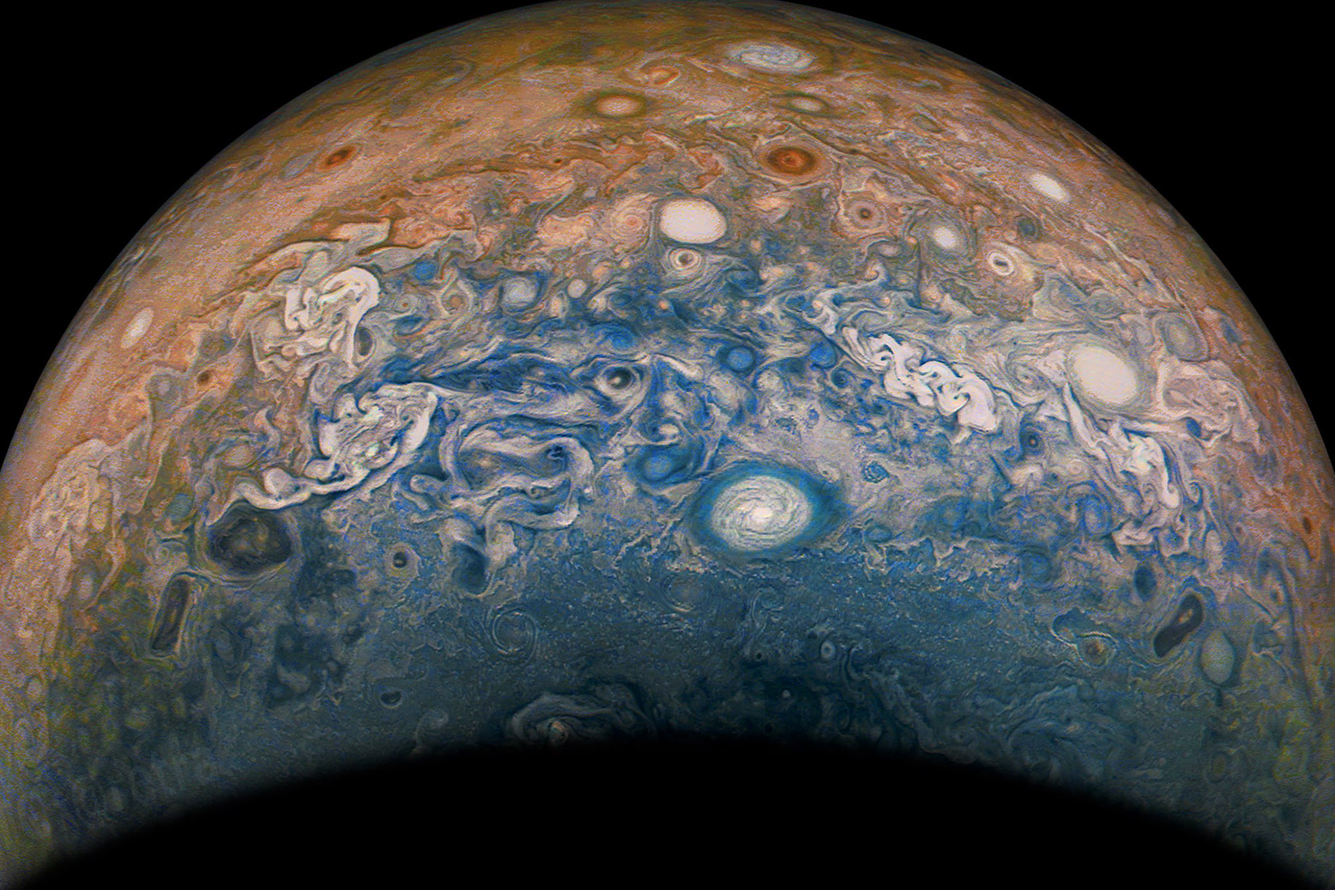
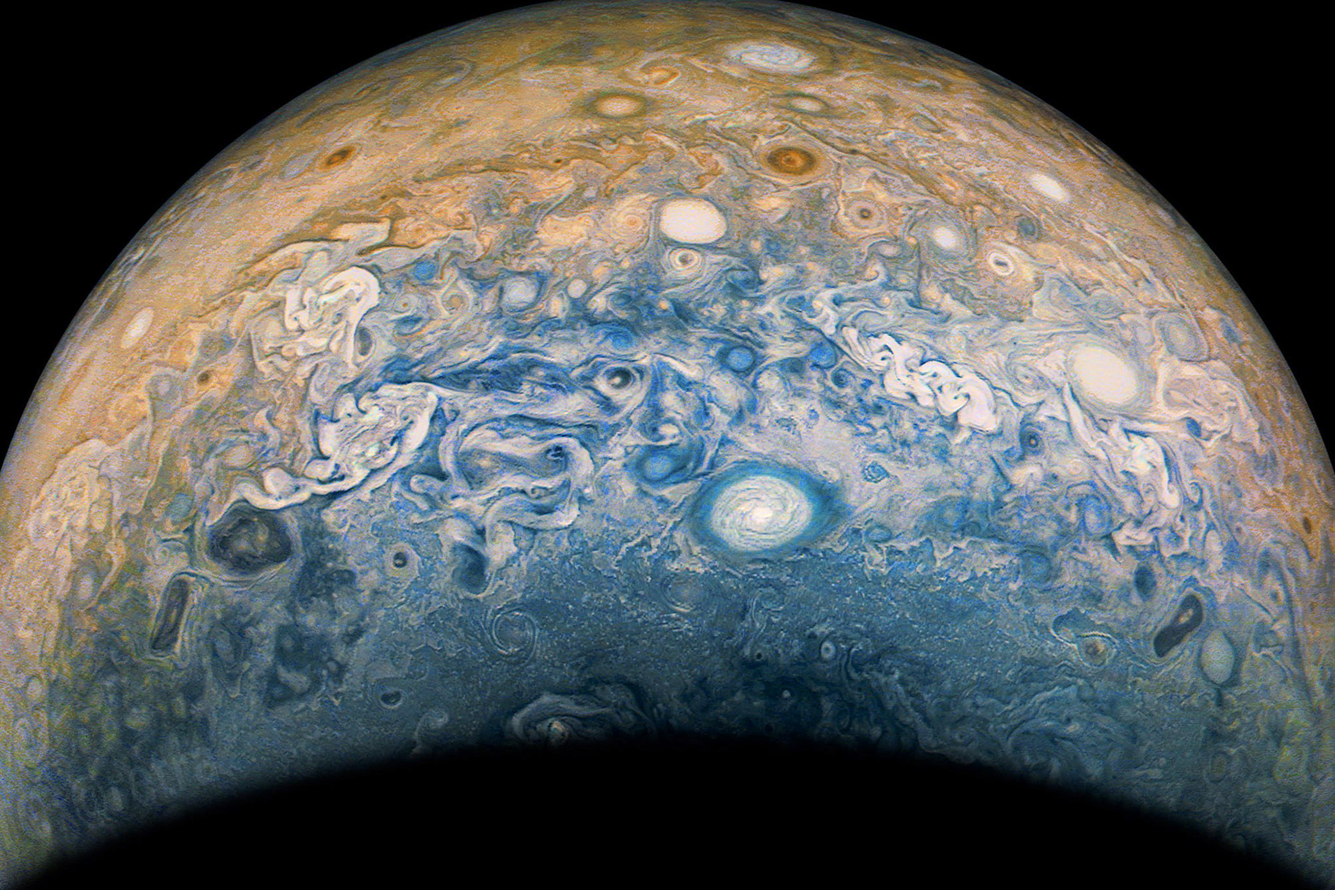
heroscreen fixed

diff --git a/assets/css/page/home.css b/assets/css/page/home.css
@@ -1,12 +1,53 @@
 /* 1. hero-секция */
 #hero {
-    background-image: url(../../img/page/home/hero1.jpg);
+    background-image: url(../../img/page/home/hero3.png);
     background-position-y: top;
     background-attachment: fixed;
     background-color: black;
     color: var(--SoftBlack);
-    display: block;
     padding: var(--sectiongap) 0 0;
+    display: block;
+}
+
+#hero div.layout:first-child {
+    padding: 0 var(--padding);
+}
+
+#hero nav {
+    padding: 1rem;
+    grid-column: 3 / -1;
+    background-color: rgba(255, 255, 255, 0.35);
+    margin: 0;
+    display: flex;
+    flex-direction: column;
+    justify-content: flex-start;
+    align-items: flex-start;
+    gap: 1rem;
+}
+
+@media (max-width: 768px) {
+}
+
+/* Семантически правильное меню сайта */
+#hero nav ul {
+    margin: 0;
+    padding: 0;
+}
+#hero nav ul li {
+    list-style-type: none;
+    margin: 0.5rem 0 0;
+}
+#hero nav a {
+    display: block;
+    color: var(--DeepBlue);
+    text-decoration: none;
+}
+#hero nav a:link,
+#hero nav a:visited {
+    color: var(--DeepBlue);
+}
+#hero nav a:hover {
+    color: var(--BrightBlue);
 }
 
 #hero h1,
@@ -16,105 +57,57 @@
         0 0 65px var(--CosmicLatte),
         0 0 10px tan,
         0 0 1.5px gold,
-        0 0 0.5px white,
-        inset 0 0 0.5px black;
+        0 0 0.5px white;
 }
 
 #hero h1 {
-    margin: calc(var(--sectiongap) / 2) var(--padding);
+    margin: calc(var(--sectiongap) / 2) 2rem;
     z-index: 2;
 }
 @media (max-width: 768px) {
     #hero h1 {
         text-align: center;
     }
-    #hero {
-        background-position-y: 15%;
-    }
-    #hero nav a {
-        text-shadow: unset;
-        color: cornflowerblue;
-    }
-    #hero nav a:visited {
-        text-shadow: unset;
-        color: var(--BrightBlue);
-    }
 }
 
-#hero::before {
-    content: "Превращаю ценности в продающий триггер";
-    font-family: Unovis100;
-    font-size: 13vw;
-    line-height: 0.5rem;
-    color: grey;
-    text-shadow:
-        1.5px 1.5px 0 silver,
-        -1.5px -1.5px 0 silver,
-        -1.5px 1.5px 0 silver,
-        1.5px -1.5px 0 silver;
-    mix-blend-mode: overlay;
+#hero .outline {
     position: absolute;
-    left: 0;
-    width: 100vw;
-    bottom: 326px;
-    display: none;
+    font-family: Unovis100;
+    font-size: 10vw;
+    line-height: 4.5vw;
+    padding-top: 0.65rem;
 }
-#hero nav,
-#hero div {
-    margin: 0 var(--padding);
-    display: grid;
-    grid-template-columns: var(--grid);
-}
+@media (max-width: 768px){
+    #hero .outline {
+    font-size: 9vw;
+    }}
 
-#hero nav *,
-#hero div * {
+#hero .layout *,
+#hero .layout p {
     grid-column: 3 / -1;
 }
 
-#hero ul {
-    margin: 1rem 0 0;
-}
-
-#hero div {
+#hero div.layout:last-child {
+    display: grid;
+    grid-template-columns: var(--grid);
     color: var(--CosmicLatte);
     background: var(--SoftBlack);
-    margin: 0;
     padding: 2rem var(--padding) var(--sectiongap);
 }
 
-@media (min-width: 769px) {
-    #hero .logo {
-        background: url(../../img/logo/Kc_logo_full_logo_raster_lght.png);
-        background-size: contain;
-        background-position: center;
-        background-repeat: no-repeat;
-        border: none;
-    }
+#hero div.layout:last-child div {
+    position: relative;
+    display: flex;
+    flex-direction: column;
+    gap: 0.5rem;
 }
-
-/* Семантически правильное меню сайта */
-nav {
-    grid-auto-flow: row;
-}
-nav a {
-    display: block;
-    color: var(--DeepBlue);
-    text-decoration: none;
-}
-nav a:hover {
-    color: var(--BrightBlue);
-}
-#hero a:visited {
-    color: var(--DeepBlue);
-}
-
-nav ul {
-    margin: 0;
-    padding: 0;
-}
-nav ul li {
-    list-style-type: none;
-    margin: 0.5rem 0 0;
+#hero div.layout:last-child span {
+    position: absolute;
+    bottom: 0;
+    left: -3rem;
+    rotate: -90deg;
+    transform-origin: left;
+    color: slategray;
 }
 
 /* 2. Value-секция */
@@ -194,7 +187,7 @@ h2::before {
     z-index: -2;
 }
 
-.layout p {
+#value .layout p {
     grid-column-start: 2 !important;
 }
 
@@ -266,7 +259,7 @@ h2::before {
     grid-column: 5;
     grid-row: 2;
     aspect-ratio: 3 / 4;
-    height: 100%;
+    padding-right: calc(1rem + 2vw);
 }
 
 #portfolio h2 {
@@ -283,9 +276,6 @@ h2::before {
     z-index: 3;
 }
 
-#portfolio .description small {
-    padding-right: calc(1rem + 2vw);
-}
 @media (min-width: 1024px) {
     #portfolio .description small::before {
         content: "Дизайн должен передавать конкретное качество или ценность";

diff --git a/index.html b/index.html
@@ -1,5 +1,6 @@
 ---
 ---
+
 <!doctype html>
 <html lang="ru">
     <head>
@@ -17,20 +18,24 @@
 
     <body class="home" onload="onPageLoaded()">
         <section id="hero">
-            <nav>
-                <span class="logo"></span>
-                <ul>
-                    <li><a href="portfolio/index.html">Портфолио</a></li>
-                    <li><a href="https://t.me/+fwpsPv9mZec4MjQ6">telegram</a></li>
-                </ul>
-            </nav>
+            <div class="layout">
+                <nav class="glass-morphism">
+                    <span class="logo"></span>
+                    <ul>
+                        <li><a href="portfolio/index.html">Портфолио</a></li>
+                        <li><a href="https://t.me/+fwpsPv9mZec4MjQ6">telegram</a></li>
+                    </ul>
+                </nav>
+            </div>
+            <strong class="outline">Превращаю ценности вашего бизнеса в&nbsp;продающий дизайн</strong>
             <h1>Превращаю ценности вашего бизнеса в&nbsp;продающий дизайн</h1>
-            <div>
-                <p>
-                    Современный дизайн часто делает выбор между иерархией информации и наполненностью деталями.
-                    <br />Я открываю путь, при котором два подхода не противоречат друг другу
-                </p>
-                <a class="btn" href="#CTA">Узнать больше</a>
+            <div class="layout">
+                <div>
+                    <p>Современный дизайн часто делает выбор между иерархией информации и&nbsp;наполненностью деталями.</p>
+                    <p>Я&nbsp;открываю путь, при котором два подхода не&nbsp;противоречат друг другу</p>
+                    <span class="side">← как это работает</span>
+                </div>
+                    <a class="btn" href="#CTA">Узнать больше</a>
             </div>
         </section>
         <section id="value">
@@ -50,7 +55,9 @@
             </div>
             <ul>
                 <li>
-                    <h3 class="h4">«Выглядит красиво, но&nbsp;не&nbsp;продаёт. Люди не&nbsp;понимают, зачем им&nbsp;это»</h3>
+                    <h3 class="h4">
+                        «Выглядит красиво, но&nbsp;не&nbsp;продаёт. Люди не&nbsp;понимают, зачем им&nbsp;это»
+                    </h3>
                     <p>
                         Я перевожу ценности вашего продукта в&nbsp;визуальный язык. Дизайн говорит с&nbsp;вашей
                         аудиторией на&nbsp;её&nbsp;языке

diff --git a/assets/css/themes.css b/assets/css/themes.css
@@ -58,14 +58,15 @@ body {
 
 .glass-morphism {
     background: rgba(255, 255, 255, 0.1);
-    border-radius: 20px;
     border: 1px solid rgba(255, 255, 255, 0.18);
     box-shadow: 0 8px 32px 0 rgba(31, 38, 135, 0.37);
     backdrop-filter: blur(10px) saturate(180%);
     -webkit-backdrop-filter: blur(10px) saturate(180%);
 }
 
-/* ! применяет режим наложения ! */
+
+/* ! ПРИМЕНЯЕТ режим наложения ! */
+
 .shadowhuge {
     color: grey;
     text-shadow:
@@ -74,4 +75,14 @@ body {
         0 0.5px 1.5px #826a56,
         0.5px 0 1.5px rgba(34, 66, 120, 0.65);
     mix-blend-mode: hard-light;
+}
+
+.outline{
+    color: grey;
+    text-shadow:
+        1.5px 1.5px 0 silver,
+        -1.5px -1.5px 0 silver,
+        -1.5px 1.5px 0 silver,
+        1.5px -1.5px 0 silver;
+    mix-blend-mode: overlay;
 }
